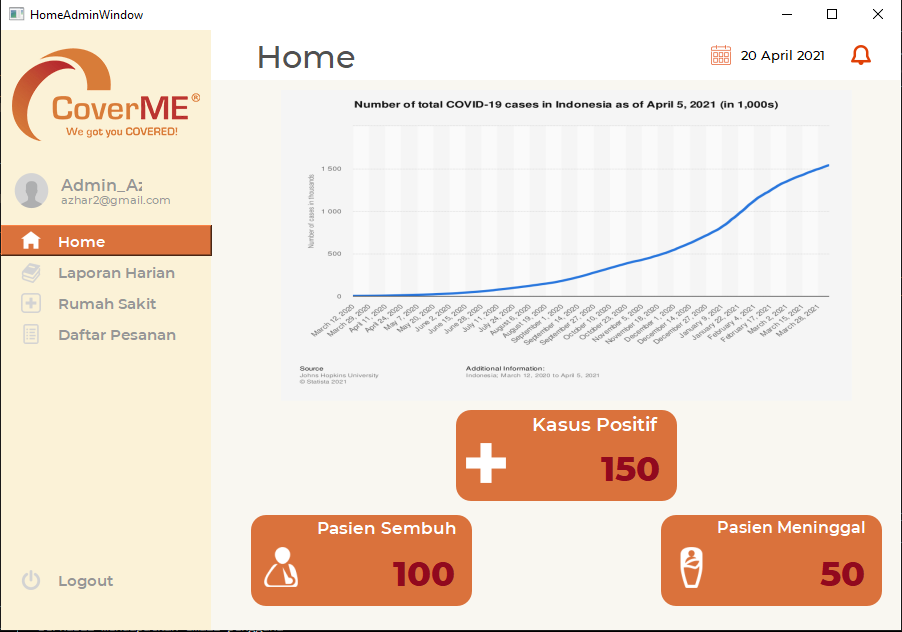
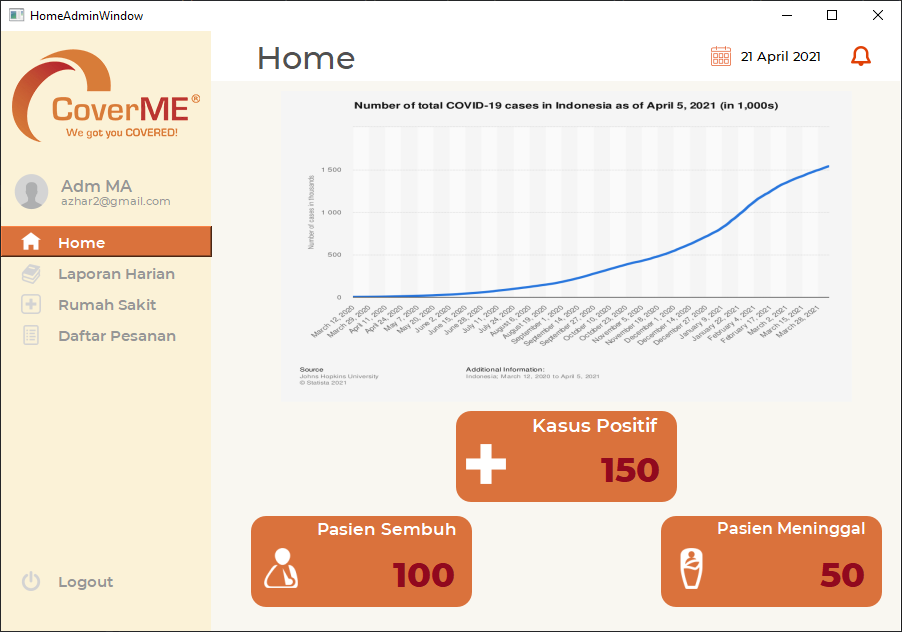
update img in doc

diff --git a/src/Init_DBData.py b/src/Init_DBData.py
@@ -31,9 +31,13 @@ def InitDB():
     # Mengisi/Modifikasi data 
     add_new_rs(db,cursor,DB_NAME,("RS CEMPAKA", 50000, 2))
     add_new_user(db, cursor, DB_NAME, ["Azhar", "azhar", "4200", "azhar@gmail.com", "Bandung", "2001-04-20", "08822313412"])
-    add_new_user(db, cursor, DB_NAME, ["Azhar3", "azhar3", "42003", "azhar3@gmail.com", "Bandung", "2001-04-20", "08822313412"])
-    add_new_user(db, cursor, DB_NAME, ["Azhar5", "azhar5", "42005", "azhar5@gmail.com", "Bandung", "2001-04-20", "08822313412"])
-    add_new_admin(db, cursor, DB_NAME, ["Admin_Azhar", "azhar2", "42002", "azhar2@gmail.com", "Bandung", "2001-04-20", "08822313412","Admin"])
+    add_new_user(db, cursor, DB_NAME, ["Anantha", "anantha", "4100", "nan@gmail.com", "Bandung", "2001-04-29", "08822313412"])
+    add_new_user(db, cursor, DB_NAME, ["Reihan", "reihan", "4000", "rei@gmail.com", "Bandung", "2001-04-25", "08822313412"])
+    add_new_user(db, cursor, DB_NAME, ["Kinan", "kinantan", "4300", "kin@gmail.com", "Bandung", "2001-04-23", "08822313412"])
+    add_new_admin(db, cursor, DB_NAME, ["Adm MA", "admin_azhar", "42002", "azhar2@gmail.com", "Bandung", "2001-04-20", "08822313412","Admin"])
+    add_new_admin(db, cursor, DB_NAME, ["Adm GA", "admin_anantha", "41002", "nan2@gmail.com", "Bandung", "2001-04-29", "08822313412","Admin"])
+    add_new_admin(db, cursor, DB_NAME, ["Adm RA", "admin_reihan", "40002", "rei2@gmail.com", "Bandung", "2001-04-25", "08822313412","Admin"])
+    add_new_admin(db, cursor, DB_NAME, ["Adm KA", "admin_kinantan", "43002", "kin2@gmail.com", "Bandung", "2001-04-23", "08822313412","Admin"])
     set_kasus_positif(db,cursor,DB_NAME,150)
     set_pasien_sembuh(db,cursor,DB_NAME,100)
     set_pasien_meninggal(db,cursor,DB_NAME,50)

diff --git a/README.md b/README.md
@@ -60,7 +60,7 @@ python3 Login_User.py
 ![Screenshot](doc/PesananAdminWindow.PNG)
 ![Screenshot](doc/HomeKlienWindow.PNG)
 ### Screen Capture Modul 15 dan 16
-![Screenshot](doc/PesananKlienWindow-Tidak Ada Pesanan.PNG)
+![Screenshot](doc/PesananKlienWindow-TidakAdaPesanan.PNG)
 ![Screenshot](doc/PesananKlienWindow-Pending.PNG)
 ![Screenshot](doc/PesananKlienWindow-Accepted.PNG)
 ![Screenshot](doc/PesananKlienWindow-Rejected.PNG)
